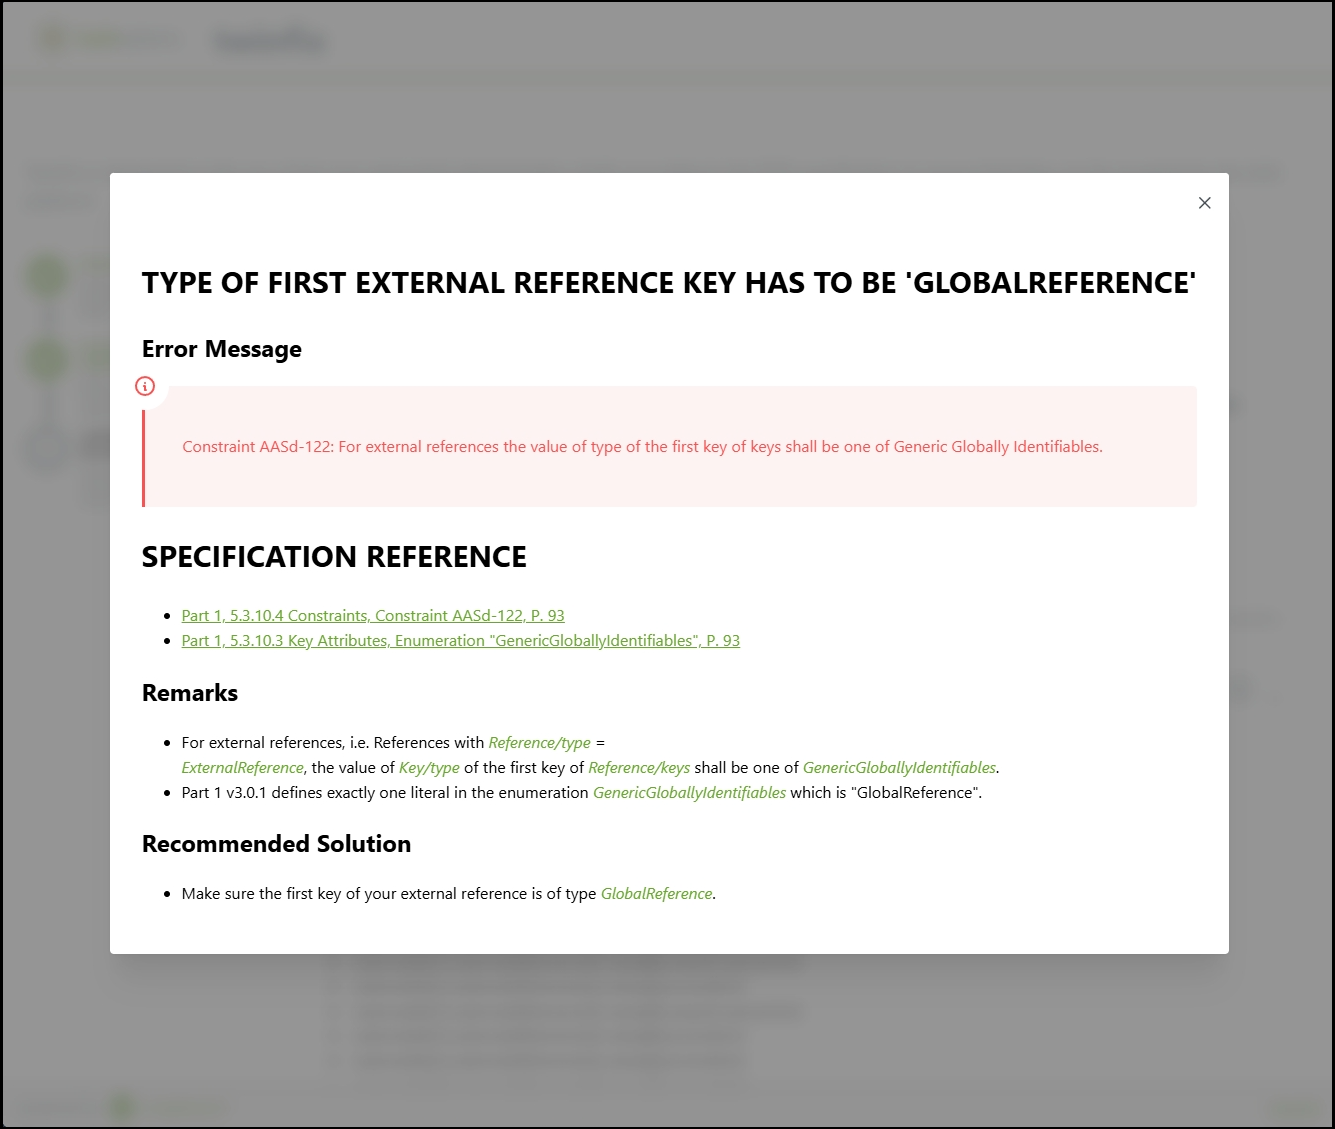
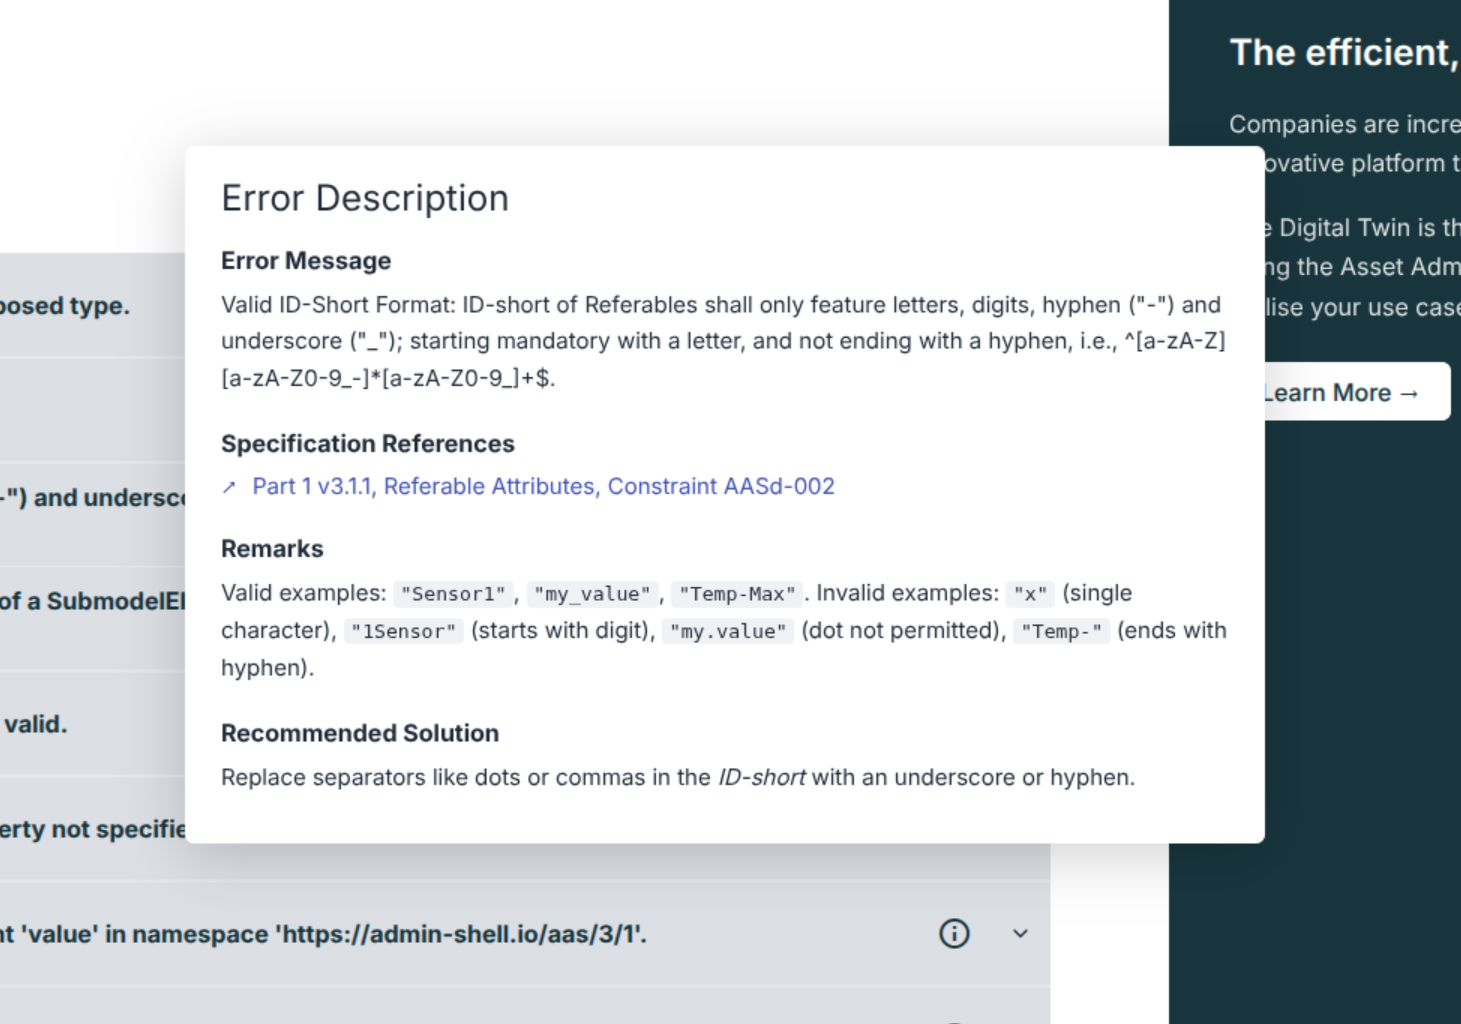
feat(twinfix): release notes twinfix 2.0.0
Add release notes for version 2.0.0 of twinfix. Furthermore, we drop any
references to the now outdated aas validator in file names, as well as
in the text itself.

diff --git a/docs/twinfix-release_notes.md b/docs/twinfix-release_notes.md
@@ -1,0 +1,48 @@
+# Release Notes of twinfix
+
+## Versioning
+
+twinfix library follows [semantic versioning](https://semver.org/) in the form major.minor.patch.
+
+---
+
+<!--markdownlint-disable no-emphasis-as-heading -->
+
+## twinfix 2.0.0
+
+*Released on 07-July-2026*.
+
+- **[Feat]** Complete rewrite with new UI.
+- **[Feat]** Reimplement the validation on the basis of twinsphere.TypedAasMetamodels validation module.
+    - The new validation engine now supports parts 1 and 5 of the AAS specification
+    - Submodel template and instance specific validations
+    - Subomdel instance conformicy validations
+
+## twinfix 1.1.0
+
+*Released on 07-March-2025*.
+
+- **[Feat]** Add validation for wrong/missing thumbnails.
+
+## twinfix 1.0.1
+
+*Released on 24-January-2025*.
+
+- **[Fix]** Resolve endless-loop in performing idShort fixes.
+
+## twinfix 1.0.0
+
+*Released on 28-October-2024*.
+
+- **[Feat]** Rewrite and relaunch as twinfix.
+- **[Feat]** Rewrite the UI.
+- **[Feat]** twinfix now integrates the ability to automatically fix and resolve some common issues.
+
+## aas-checker 1.0.0
+
+*Released on 03-March-2024*.
+
+- **[Feat]** Initial release. Web service that leverages the `AasCore` validations plus a handful additional validations
+  to validate against parts 1 and 5 of the AAS specification.
+
+<!--markdownlint-enable no-emphasis-as-heading -->

diff --git a/docs/twinfix-overview.md b/docs/twinfix-overview.md
@@ -1,0 +1,22 @@
+# twinsphere twinfix Documentation
+
+twinfix is a free-to-use service that to check the conformity of AAS packages for common issues. It is publicly
+available at <https://twinfix.twinsphere.io>.
+
+## Overivew
+
+twinfix analyzes uploaded `.aasx` packages and displays all validation errors found grouped by error class. It offers a
+help screen for many of the common errors including links to relevant parts of the specification and a recommendation on
+what to do to address the issue.
+
+At the moment, twinfix supports the following validations:
+
+- AAS Spec Part 1, validations of the meta model language and its normal serializations
+- AAS Spec Part 5, validations for the `.aasx` package format
+- Specific validations for submodel instances and submodel templates
+- Validations for the conformity of submodel instances against the templates that guided their creation
+
+For some errors it even has the power to apply a fix automatically!
+
+![twinfix Error List](img/twinsphere_twinfix_errorlist.png){: width='400' }
+![twinfix Error Help](img/twinsphere_twinfix_errorhelp.png){: width='400' }

diff --git a/docs/index.md b/docs/index.md
@@ -16,6 +16,6 @@ Our twinsphere suite consists of multiple applications and libraries:
 - [Viewer](viewer-overview.md)
 - [Management](management-overview.md)
 - [Development libraries (DevKit)](typed-aas-metamodels-overview.md)
-- [Validators](validators-overview.md)
+- [Validators](twinfix-overview.md)
 
 [![markitecture](img/twinsphere_marketecture-eng.png)](./img/twinsphere_marketecture-eng.png)
